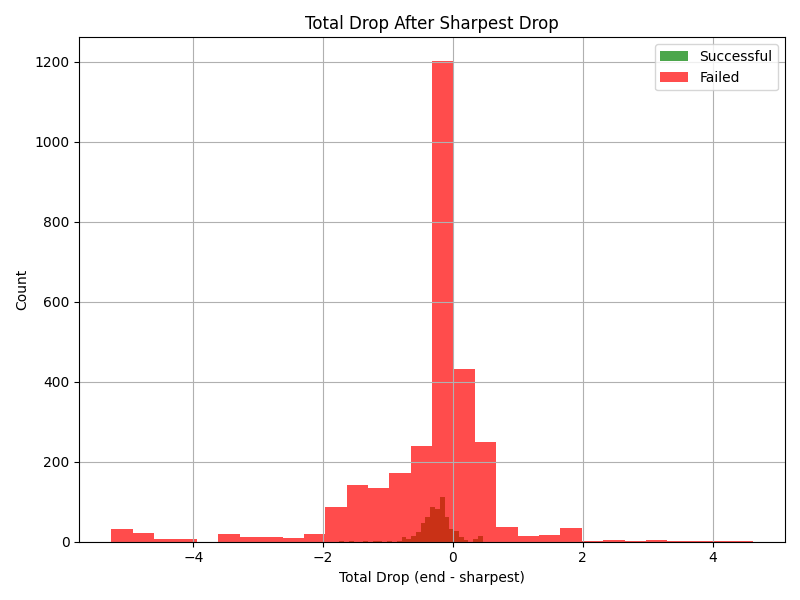
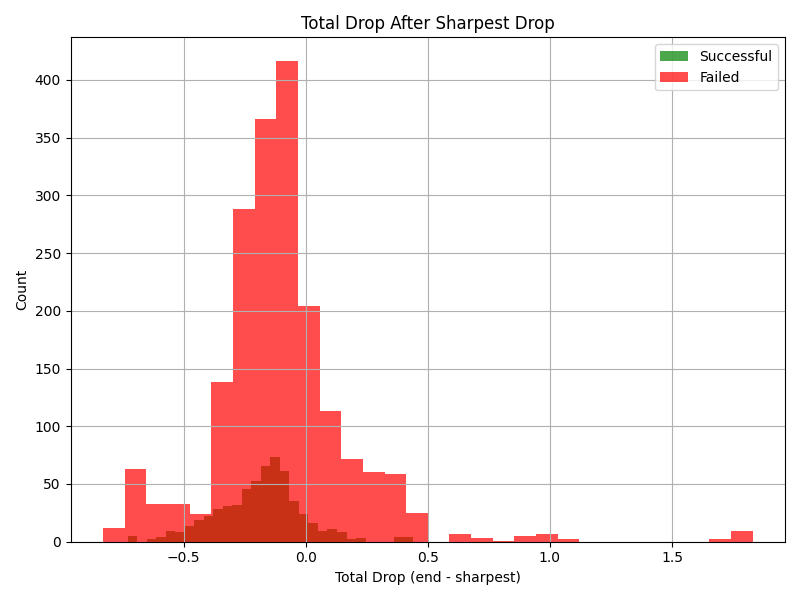
added three post filtering filters

diff --git a/models/LSTM/code/lstm_model.py b/models/LSTM/code/lstm_model.py
@@ -626,6 +626,93 @@ class VortexLSTMModel:
             'failed_confidences': failed_confidences
         }
 
+    def evaluate_triggered_pointwise(self, y_pred, test_data):
+        """
+        Evaluate using a custom 'latch-on' pointwise logic.
+        Once an event is 'triggered' by a positive prediction, all subsequent points
+        within that true event are counted as True Positives.
+        """
+        # --- Setup ---
+        gt_detection = test_data['gt_detection_win'].values
+        gt_fwhm = test_data['gt_fwhm'].values
+        gt_combined = np.logical_or(gt_detection == 1, gt_fwhm == 1)
+        n_samples = len(gt_combined)
+        window_size = self.window_size
+
+        # Create a full-length prediction array aligned with the main data array
+        aligned_y_pred = np.zeros(n_samples, dtype=int)
+        # Predictions from the model correspond to the END of a window.
+        # So a prediction at y_pred[i] corresponds to test_data index i + window_size - 1
+        pred_indices = np.arange(len(y_pred)) + window_size - 1
+        # Ensure we don't go out of bounds
+        valid_indices = pred_indices < n_samples
+        aligned_y_pred[pred_indices[valid_indices]] = y_pred[valid_indices]
+
+        # 1. Identify all ground truth event windows
+        true_events = self.extract_event_ranges(gt_detection, gt_fwhm)
+
+        # 2. For each true event, find the index of the *first* positive prediction
+        trigger_indices = {}  # Maps event_id -> trigger_index
+        for event_idx, (start, end) in enumerate(true_events):
+            first_trigger = -1
+            # Look for a trigger within the event's span
+            for i in range(start, end + 1):
+                if aligned_y_pred[i] == 1:
+                    first_trigger = i
+                    break  # Found the first one
+            trigger_indices[event_idx] = first_trigger # Will be -1 if not triggered
+
+        # 3. Calculate metrics point-by-point based on the "latch-on" logic
+        tp, fp, fn, tn = 0, 0, 0, 0
+        point_to_event_map = {i: eid for eid, (start, end) in enumerate(true_events) for i in range(start, end + 1)}
+
+        for i in range(n_samples):
+            is_gt_positive = gt_combined[i]
+
+            if is_gt_positive:
+                event_id = point_to_event_map[i]
+                trigger_idx = trigger_indices[event_id]
+
+                if trigger_idx == -1:
+                    # The event was never triggered, so this point is a False Negative
+                    fn += 1
+                else:
+                    # The event was triggered at some point
+                    if i < trigger_idx:
+                        # This point is before the first trigger, so it's a miss
+                        fn += 1
+                    else:
+                        # This point is at or after the trigger, count as a True Positive
+                        tp += 1
+            else:
+                # This is a non-vortex point
+                if aligned_y_pred[i] == 1:
+                    fp += 1
+                else:
+                    tn += 1
+                    
+        # --- Final Metrics Calculation ---
+        precision = tp / (tp + fp) if (tp + fp) > 0 else 0
+        recall = tp / (tp + fn) if (tp + fn) > 0 else 0
+        f1 = 2 * (precision * recall) / (precision + recall) if (precision + recall) > 0 else 0
+
+        print("\nTriggered Pointwise Evaluation (Corrected 'Latch-on' Logic):")
+        print(f"Triggered Pointwise Precision: {precision:.4f}")
+        print(f"Triggered Pointwise Recall: {recall:.4f}")
+        print(f"Triggered Pointwise F1-Score: {f1:.4f}")
+        print(f"Triggered Pointwise True Positives: {tp}")
+        print(f"Triggered Pointwise False Positives: {fp}")
+        print(f"Triggered Pointwise True Negatives: {tn}")
+        print(f"Triggered Pointwise False Negatives: {fn}")
+        return {
+            'precision': precision,
+            'recall': recall,
+            'f1': f1,
+            'tp': tp,
+            'fp': fp,
+            'tn': tn,
+            'fn': fn
+        }
 
 
     def evaluate_with_windows(self, test_results, gt_windows, test_data):
@@ -1062,7 +1149,7 @@ def main():
         print("\nModel training and analysis complete!")
 
     # After triggered event evaluation in main()
-    # triggered_pointwise_results = model.evaluate_triggered_pointwise(test_results['y_pred'], test_data)
+    triggered_pointwise_results = model.evaluate_triggered_pointwise(test_results['y_pred'], test_data)
 
     # ... after test_results = model.evaluate(X_test, y_test)
     # Save original predictions for pre-filter analysis
@@ -1283,6 +1370,15 @@ def main():
 
     print(f"Detections before post-processing filters: {np.sum(y_pred_pre_filter)}")
 
+    # Compute total drop after sharpest drop for all windows
+    total_drop_after_sharpest = []
+    for p in X_test_pressure:
+        diffs = np.diff(p)
+        sharp_idx = np.argmin(diffs)
+        drop_after_sharpest = p[-1] - p[sharp_idx]
+        total_drop_after_sharpest.append(drop_after_sharpest)
+    total_drop_after_sharpest = np.array(total_drop_after_sharpest)
+
     # Apply filters
     y_pred_post_filter = y_pred_pre_filter.copy()
     # Filter 1: total drop after initial drop > 0.1
@@ -1295,20 +1391,111 @@ def main():
         if pred == 1 and not (avg_slope_after_sharpest[i] > -0.3):
             y_pred_post_filter[i] = 0
     print(f"After avg slope after sharpest drop > -0.3: {np.sum(y_pred_post_filter)} detections remain.")
+    # Filter 3: total drop after sharpest drop >= -0.75
+    for i, pred in enumerate(y_pred_post_filter):
+        if pred == 1 and total_drop_after_sharpest[i] < -0.75:
+            y_pred_post_filter[i] = 0
+    print(f"After total drop after sharpest drop >= -0.75: {np.sum(y_pred_post_filter)} detections remain.")
 
-    # --- Post-filter performance analysis ---
-    from sklearn.metrics import precision_score, recall_score, f1_score, confusion_matrix
-    precision_post = precision_score(y_test, y_pred_post_filter, zero_division=0)
-    recall_post = recall_score(y_test, y_pred_post_filter, zero_division=0)
-    f1_post = f1_score(y_test, y_pred_post_filter, zero_division=0)
-    tn, fp, fn, tp = confusion_matrix(y_test, y_pred_post_filter, labels=[0,1]).ravel()
-    print("\n--- Performance After Post-Processing Filters ---")
-    print(f"Precision: {precision_post:.4f}")
-    print(f"Recall:    {recall_post:.4f}")
-    print(f"F1-Score:  {f1_post:.4f}")
-    print(f"True Positives:  {tp}")
-    print(f"False Positives: {fp}")
-    print(f"False Negatives: {fn}")
+    # --- Post-filter continued drop analysis plots (aligned) ---
+    kept_indices = [i for i, pred in enumerate(y_pred_post_filter) if pred == 1]
+    successful_patterns_post = []
+    failed_patterns_post = []
+    total_drop_after_initial_successful_post = []
+    total_drop_after_initial_failed_post = []
+    total_drop_after_sharpest_successful_post = []
+    total_drop_after_sharpest_failed_post = []
+    continued_slope_successful_post = []
+    continued_slope_failed_post = []
+    total_drop_successful_post = []
+    total_drop_failed_post = []
+    consecutive_neg_successful_post = []
+    consecutive_neg_failed_post = []
+    drop_after_sharpest_successful_post = []
+    drop_after_sharpest_failed_post = []
+    for idx in kept_indices:
+        detection_idx = window_starts[idx]
+        # Get pressure pattern ending at detection (causal)
+        start_idx = max(0, detection_idx - model.window_size)
+        end_idx = detection_idx + 1  # inclusive of detection point
+        pressure_pattern = test_data['PRESSURE'].iloc[start_idx:end_idx].values
+        if len(pressure_pattern) == model.window_size + 1:
+            # Use the same event logic as analyze_detection_patterns
+            point_to_event_map = {}
+            for event_idx, (start, end) in enumerate(events):
+                for i in range(start, end + 1):
+                    point_to_event_map[i] = event_idx
+            if detection_idx in point_to_event_map:
+                successful_patterns_post.append(pressure_pattern)
+                total_drop_after_initial_successful_post.append(total_drop_after_initial[idx])
+                total_drop_after_sharpest_successful_post.append(total_drop_after_sharpest[idx])
+            else:
+                failed_patterns_post.append(pressure_pattern)
+                total_drop_after_initial_failed_post.append(total_drop_after_initial[idx])
+                total_drop_after_sharpest_failed_post.append(total_drop_after_sharpest[idx])
+    # Now compute the other features for these patterns
+    lookahead = 5
+    for patterns, continued_slope, total_drop, consecutive_neg, drop_after_sharpest in [
+        (successful_patterns_post, continued_slope_successful_post, total_drop_successful_post, consecutive_neg_successful_post, drop_after_sharpest_successful_post),
+        (failed_patterns_post, continued_slope_failed_post, total_drop_failed_post, consecutive_neg_failed_post, drop_after_sharpest_failed_post)
+    ]:
+        for p in patterns:
+            diffs = np.diff(p)
+            sharp_idx = np.argmin(diffs)
+            after = p[sharp_idx+1:sharp_idx+1+lookahead]
+            before = p[sharp_idx]
+            if len(after) > 0:
+                continued_slope.append((after[-1] - before) / len(after))
+            else:
+                continued_slope.append(0)
+            total_drop.append(p[-1] - p[0])
+            neg_count = 0
+            for d in diffs[sharp_idx+1:]:
+                if d < 0:
+                    neg_count += 1
+                else:
+                    break
+            consecutive_neg.append(neg_count)
+            drop_after_value = p[-1] - p[sharp_idx]
+            drop_after_sharpest.append(drop_after_value)
+    # Debug prints for misalignment (should now be zero)
+    print("\n[DEBUG] Post-filter analysis (aligned):")
+    print("len(y_pred_post_filter):", len(y_pred_post_filter))
+    print("len(window_starts):", len(window_starts))
+    print("len(failed_patterns_post):", len(failed_patterns_post))
+    print("Max total_drop_after_initial_failed_post:", np.max(total_drop_after_initial_failed_post) if len(total_drop_after_initial_failed_post) > 0 else 'N/A')
+    print("Num with value >= 0.1:", np.sum(np.array(total_drop_after_initial_failed_post) >= 0.1) if len(total_drop_after_initial_failed_post) > 0 else 'N/A')
+    bad_indices = np.where(np.array(total_drop_after_initial_failed_post) >= 0.1)[0]
+    if len(bad_indices) > 0:
+        print("Indices and values of failed detections with total_drop_after_initial >= 0.1:")
+        for idx in bad_indices:
+            print(f"  Index: {idx}, Value: {total_drop_after_initial_failed_post[idx]}")
+    else:
+        print("No failed detections with total_drop_after_initial >= 0.1 found.")
+
+    plot_continued_drop_analysis(
+        continued_slope_successful_post, continued_slope_failed_post,
+        total_drop_successful_post, total_drop_failed_post,
+        consecutive_neg_successful_post, consecutive_neg_failed_post,
+        drop_after_sharpest_successful_post, drop_after_sharpest_failed_post,
+        total_drop_after_initial_successful_post, total_drop_after_initial_failed_post,
+        lookahead,
+        suffix="_post_filter"
+    )
+
+    # --- Post-filter total drop after sharpest drop analysis plot ---
+    import matplotlib.pyplot as plt
+    plt.figure(figsize=(10, 8))
+    plt.hist(total_drop_after_sharpest_successful_post, bins=30, alpha=0.7, label='Successful', color='green')
+    plt.hist(total_drop_after_sharpest_failed_post, bins=30, alpha=0.7, label='Failed', color='red')
+    plt.title('Total Drop After Sharpest Drop_post_filter')
+    plt.xlabel('Total Drop (end - sharpest)')
+    plt.ylabel('Count')
+    plt.legend()
+    plt.grid(True)
+    plt.tight_layout()
+    plt.savefig('continued_drop_analysis_total_drop_after_sharpest_post_filter.png')
+    plt.close()
 
     # --- Combined Sharp Drop + New Filters Post-Processing ---
     print("\n--- Combined Sharp Drop + New Filters Post-Processing ---")
@@ -1328,6 +1515,34 @@ def main():
     print("\n--- Confidence Threshold Sweep (After Combined Filters) ---")
     thresholds_range = np.arange(0.1, 0.91, 0.01)
     sweep_confidence_thresholds(y_test, y_pred_combined_filter, y_pred_proba_pre_filter, thresholds_range)
+
+    # --- Find best threshold for total_drop_after_sharpest ---
+    best_f1 = 0
+    best_thresh = None
+    best_y_pred = None
+    from sklearn.metrics import precision_score, recall_score, f1_score
+    sweep_range = np.arange(-1.5, 0.01, 0.05)
+    for thresh in sweep_range:
+        y_pred_temp = y_pred_pre_filter.copy()
+        # Apply all previous filters
+        for i, pred in enumerate(y_pred_temp):
+            if pred == 1 and not (total_drop_after_initial[i] < 0.1):
+                y_pred_temp[i] = 0
+        for i, pred in enumerate(y_pred_temp):
+            if pred == 1 and not (avg_slope_after_sharpest[i] > -0.3):
+                y_pred_temp[i] = 0
+        # Now apply the threshold sweep for total_drop_after_sharpest
+        for i, pred in enumerate(y_pred_temp):
+            if pred == 1 and total_drop_after_sharpest[i] < thresh:
+                y_pred_temp[i] = 0
+        f1 = f1_score(y_test, y_pred_temp, zero_division=0)
+        if f1 > best_f1:
+            best_f1 = f1
+            best_thresh = thresh
+            best_y_pred = y_pred_temp.copy()
+    print(f"\nBest F1-score after all filters: {best_f1:.4f} at total_drop_after_sharpest threshold {best_thresh:.2f}")
+    # Use the best filter for subsequent post-filter analysis
+    y_pred_post_filter = best_y_pred
 
 if __name__ == "__main__":
     main() 

diff --git a/models/LSTM/code/plotting_utils.py b/models/LSTM/code/plotting_utils.py
@@ -223,12 +223,15 @@ def plot_training_history(history):
     plt.tight_layout()
     plt.show()
 
-def plot_continued_drop_analysis(continued_slope_successful, continued_slope_failed,
-                               total_drop_successful, total_drop_failed,
-                               consecutive_neg_successful, consecutive_neg_failed,
-                               drop_after_sharpest_successful, drop_after_sharpest_failed,
-                               total_drop_after_initial_successful, total_drop_after_initial_failed,
-                               lookahead):
+def plot_continued_drop_analysis(
+    continued_slope_successful, continued_slope_failed,
+    total_drop_successful, total_drop_failed,
+    consecutive_neg_successful, consecutive_neg_failed,
+    drop_after_sharpest_successful, drop_after_sharpest_failed,
+    total_drop_after_initial_successful, total_drop_after_initial_failed,
+    lookahead,
+    suffix=""
+):
     """Plot continued drop analysis."""
     # 1. Avg Slope After Sharpest Drop (Next 5 pts)
     plt.figure(figsize=(8, 6))
@@ -286,14 +289,30 @@ def plot_continued_drop_analysis(continued_slope_successful, continued_slope_fai
     plt.figure(figsize=(8, 6))
     plt.hist(total_drop_after_initial_successful, bins=30, alpha=0.7, label='Successful', color='green')
     plt.hist(total_drop_after_initial_failed, bins=30, alpha=0.7, label='Failed', color='red')
-    plt.title('Total Drop After Initial Drop')
+    plt.title('Total Drop After Initial Drop' + suffix)
     plt.xlabel('Total Drop (end - initial)')
     plt.ylabel('Count')
     plt.legend()
     plt.grid(True)
     plt.tight_layout()
-    plt.savefig('continued_drop_after_initial.png')
+    plt.savefig(f'continued_drop_analysis_total_drop_after_initial{suffix}.png')
     plt.close()
+
+    # You can add more plots for other features as needed, e.g. continued_slope, drop_after_sharpest, etc.
+    # Example for continued_slope:
+    plt.figure(figsize=(10, 8))
+    plt.hist(continued_slope_successful, bins=30, alpha=0.7, label='Successful', color='green')
+    plt.hist(continued_slope_failed, bins=30, alpha=0.7, label='Failed', color='red')
+    plt.title('Continued Slope After Sharpest Drop' + suffix)
+    plt.xlabel(f'Avg Slope (next {lookahead} points)')
+    plt.ylabel('Count')
+    plt.legend()
+    plt.grid(True)
+    plt.tight_layout()
+    plt.savefig(f'continued_drop_analysis_continued_slope{suffix}.png')
+    plt.close()
+
+    # Add more plots as needed for your analysis
 
 def plot_sharpest_n_point_drops(successful_patterns, failed_patterns):
     """Plot sharpest N-point drop analysis."""
